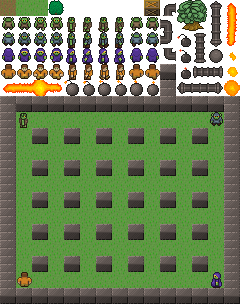
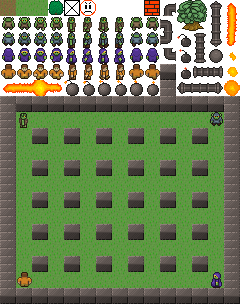
add basic enemy

Changed region(s): [[0.2625, 0.0, 0.4083, 0.0592], [0.5833, 0.0, 0.6708, 0.0592]]

diff --git a/src/javascript/enemies.js b/src/javascript/enemies.js
@@ -1,0 +1,54 @@
+class Enemy {
+    constructor(health, moveSpeed, flying, x, y) {
+        this.health = health;
+        this.moveSpeed = moveSpeed;
+        this.flying = flying; // can this enemy type fly over walls?
+        this.x = x;
+        this.y = y;
+    }
+}
+
+// basic enemy. 1 life, rather slow, can not fly.
+class Creep extends Enemy{
+    constructor() {
+        super(1, 5, false, 80, 0);
+    }
+}
+
+function enemies(numEnemies) {
+    // allEnemies is an array, which at each index saves the enemy object
+    // as well as that enemy's current position on the gameboard
+    var allEnemies = [];
+    for(var i = 0; i < numEnemies; i++) {
+        allEnemies.push({
+            enemy: new Creep,
+            x:     i,
+            y:     i 
+        });
+    }
+    return allEnemies;
+}
+
+function drawEnemies(enemies, ctx) {
+    //console.log("drawEnemies();");
+    //console.log(`numEnemies = ${enemies.length};`);
+    for (var i = 0; i < enemies.length; i++) {
+        ctx.drawImage(document.getElementById('art_assets'),
+                    enemies[i].enemy.x, enemies[i].enemy.y, 16, 16,
+                    enemies[i].x * tileSize, enemies[i].y * tileSize, tileSize, tileSize);
+    }
+
+}
+
+// for debugging
+function printAllEnemiesStats(enemies) {
+    console.log("---------------------------");
+    console.log("Enemies:");
+    for(var i = 0; i < enemies.length; i++) {
+        console.log(`   Enemy ${i}`);
+        console.log(`       Health: ${enemies[i].health}`);
+        console.log(`       Speed: ${enemies[i].moveSpeed}`);
+        console.log(`       Flying: ${enemies[i].flying}`);
+    }
+    console.log("---------------------------");
+}

diff --git a/src/javascript/bomberman.js b/src/javascript/bomberman.js
@@ -11,8 +11,9 @@ var boardHeight = 13 // how many tiles is the gameboard high?
 var tileSize = 32; // how big is one tile? (width and height)
 var score = 0;
 var audioLayBomb, audioBombExplode, audioBackground, audioDeath, audioGameOver;
-// board: saves the information about the current gameboard
-var board;
+
+var board; // board: saves the information about the current gameboard
+var enemies; // enemies: saves the information about all currently living enemies
 
 var running = false; // game currently on?
 
@@ -57,7 +58,7 @@ window.onload = function(){
     // because the background music loads asynchronously
     audioBackground = new Audio("../sound/background.mp3");
     audioBackground.loop = true;
-    audioBackground.play();
+    //audioBackground.play();
     
     startGame();
 }
@@ -68,13 +69,14 @@ function startGame() {
     //TODO: init player, init monsters
     
     board = gameboard(boardWidth, boardHeight);
+    enemies = enemies(6);
+    printAllEnemiesStats(enemies);
     
-    var renderIntervalId = setInterval(loop, GAME_SPEED);
+    renderIntervalId = setInterval(loop, GAME_SPEED);
 }
 
 // is called every 50 ms
 function loop() {
-    console.log("loop");
     //TODO:
         //move enemies
         //move bomberman
@@ -85,6 +87,6 @@ function loop() {
 //--------------------------------------------------------------------------
 function drawScreen() {
     drawGameboard(board, ctx);
-    //drawEnemies();
+    drawEnemies(enemies, ctx);
     //drawBomberman();
 }

diff --git a/src/index.html b/src/index.html
@@ -15,7 +15,8 @@
 	<link href="https://fonts.googleapis.com/css?family=Roboto:300" rel="stylesheet">
 
 	<script src="https://code.jquery.com/jquery-1.10.2.js"></script>
-	<script src="javascript/boardLogic.js"></script>
+	<script src="javascript/board.js"></script>
+	<script src="javascript/enemies.js"></script>
 	<script src="javascript/bomberman.js"></script>
 	<script src="javascript/index.js"></script>
 </head>

diff --git a/src/javascript/board.js b/src/javascript/board.js
@@ -58,7 +58,6 @@ function gameboard(width, height, boxSpawnChance = 0.7) {
     return board;
 }
 
-
 //draws the gameboard part within the canvas
 function drawGameboard(data, ctx) {
     //col = x coordinates, row = y
